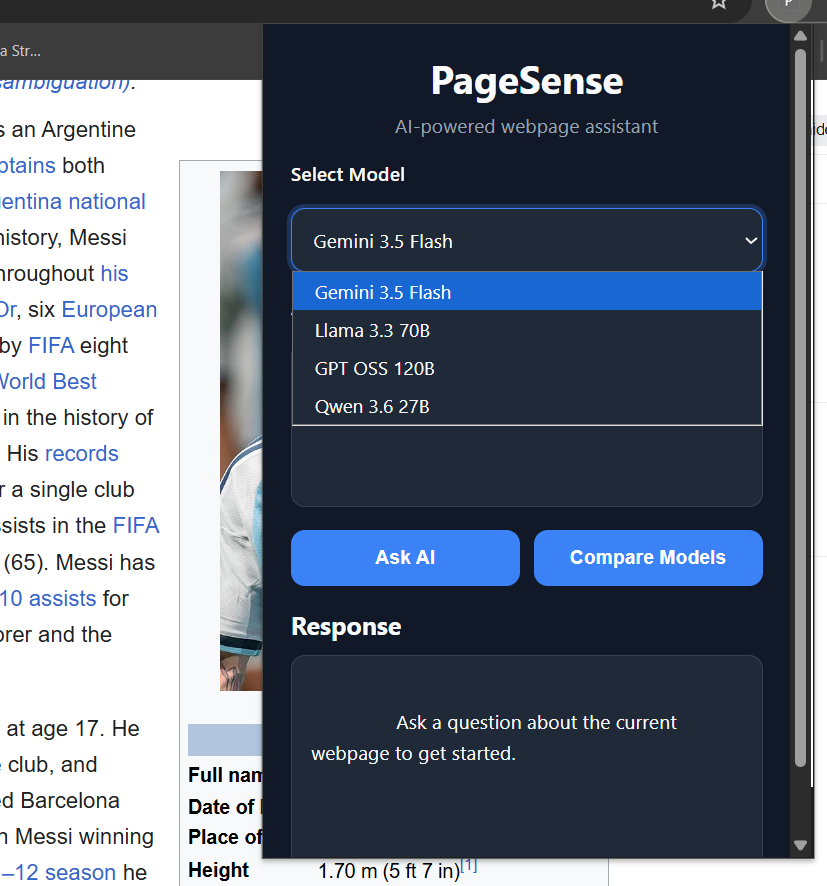
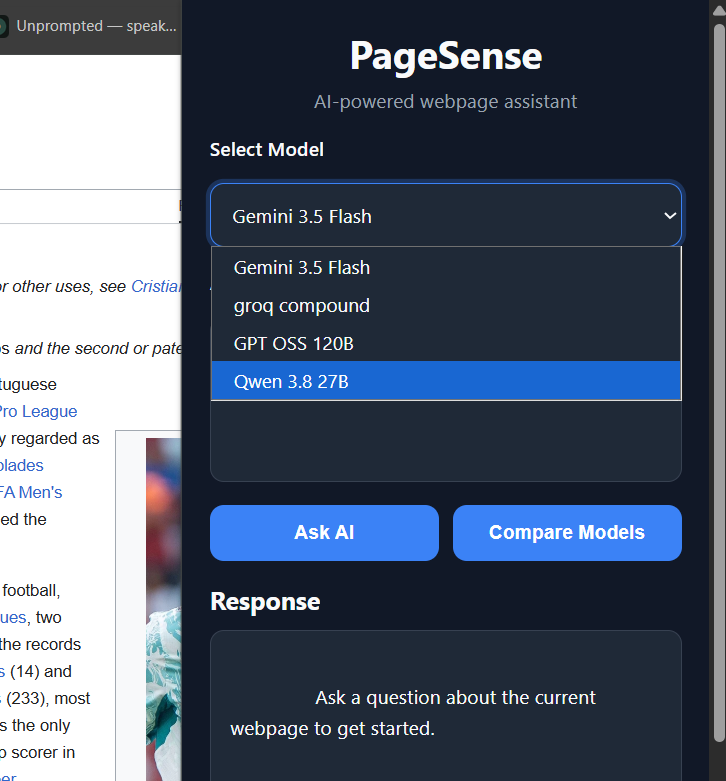
Update README and model selection screenshot

diff --git a/README.md b/README.md
@@ -88,7 +88,7 @@ Prompt Construction
    │
    ▼
 Selected LLM
-(Gemini / GPT-OSS / Llama / Qwen)
+(Gemini / Groq compound / Llama / Qwen)
    │
    ▼
 Context-Aware Answer
@@ -164,9 +164,9 @@ PageSense supports multiple Large Language Models, enabling users to select the 
 Current supported models:
 
 - Google Gemini
-- Meta Llama 3.3 70B
+- Groq compound
 - OpenAI GPT-OSS 120B
-- Qwen 3.6 27B
+- Qwen 3.8 27B
 
 Future versions will allow users to compare responses from multiple models simultaneously.
 
@@ -288,8 +288,8 @@ Solution:
 - Google Gemini API
 - Groq API
 - GPT-OSS
-- Llama 3.3
-- Qwen
+- Groq compound
+- Qwen 3.8
 
 ## Retrieval
 
@@ -464,8 +464,8 @@ Example Response
             "name":"Gemini 2.5 Flash"
         },
         {
-            "id":"llama",
-            "name":"Llama 3.3 70B"
+            "id":"Groq",
+            "name":"Groq compound"
         },
         {
             "id":"gptoss",
@@ -473,7 +473,7 @@ Example Response
         },
         {
             "id":"qwen",
-            "name":"Qwen 3.6 27B"
+            "name":"Qwen 3.8 27B"
         }
     ]
 }
